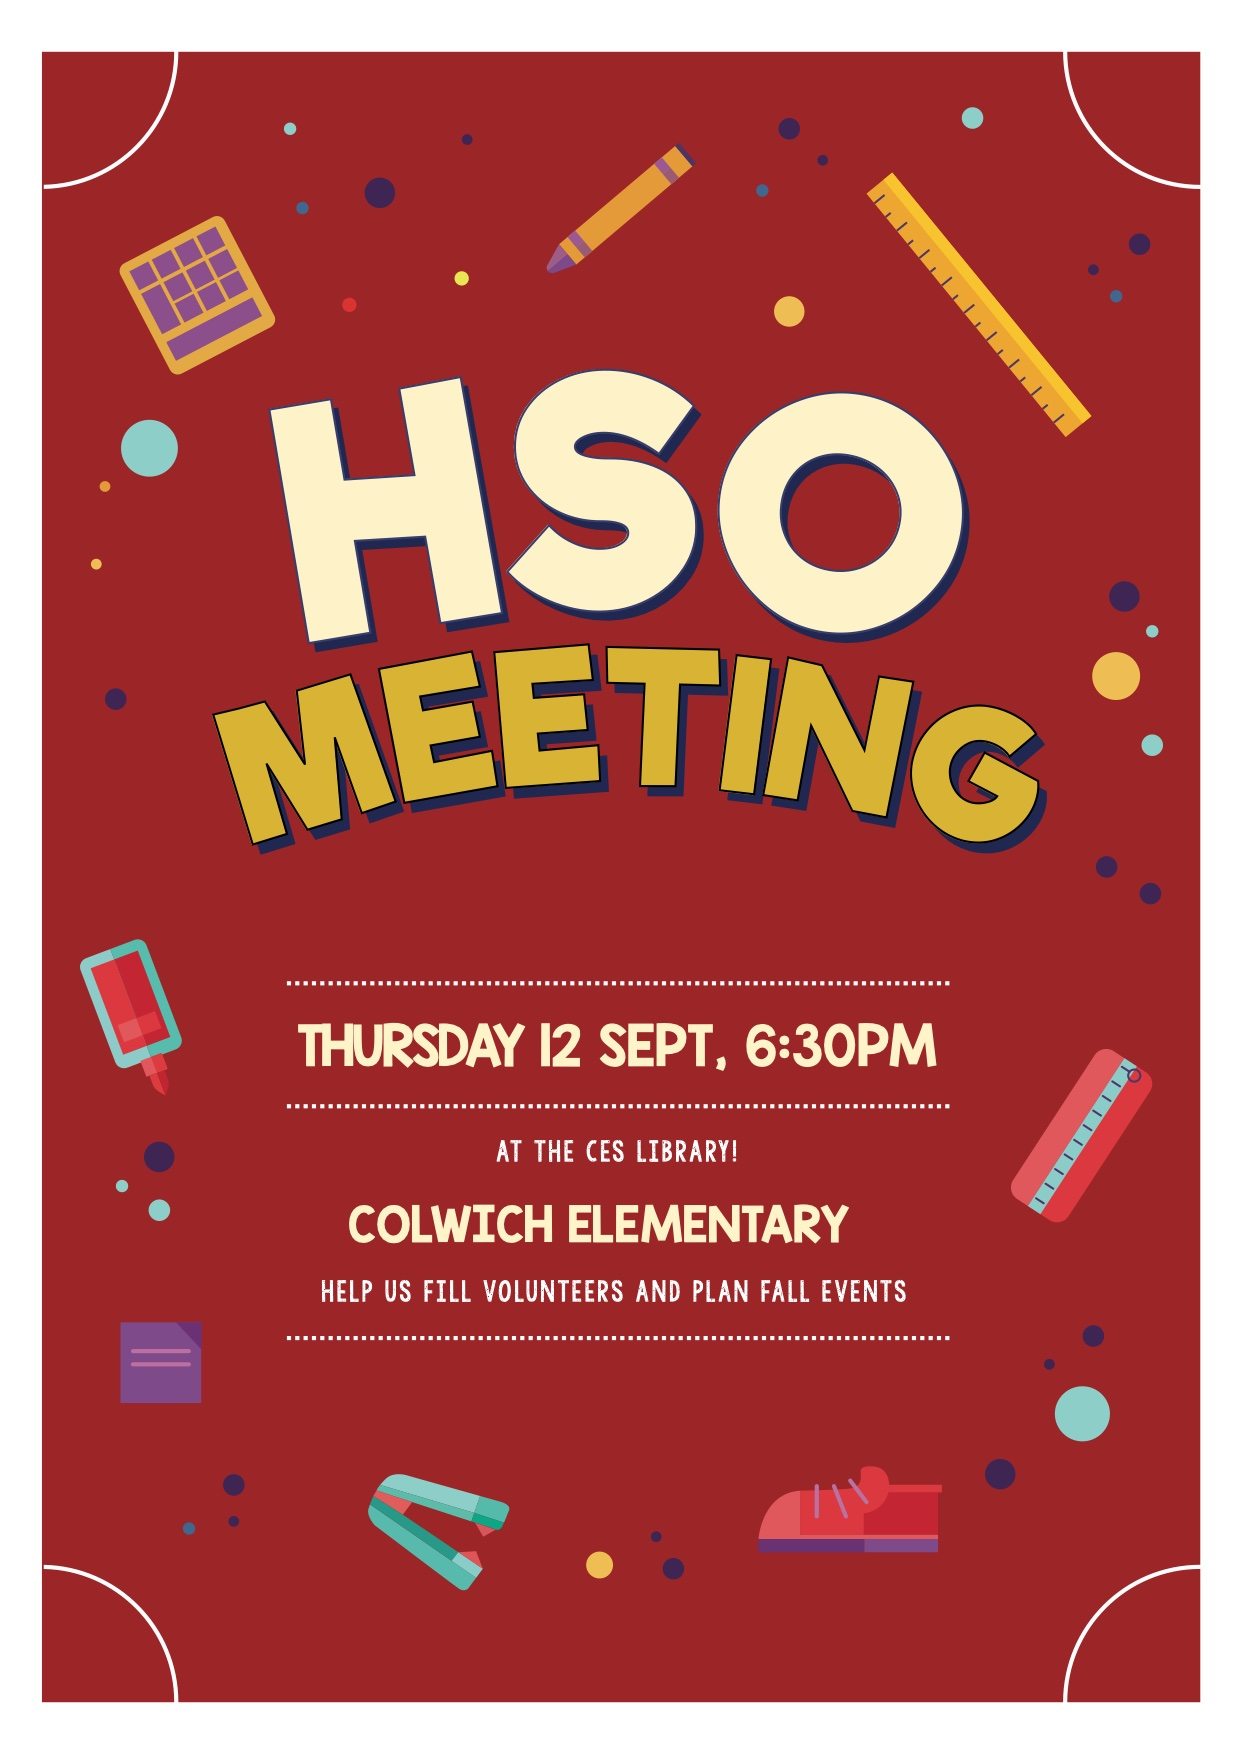
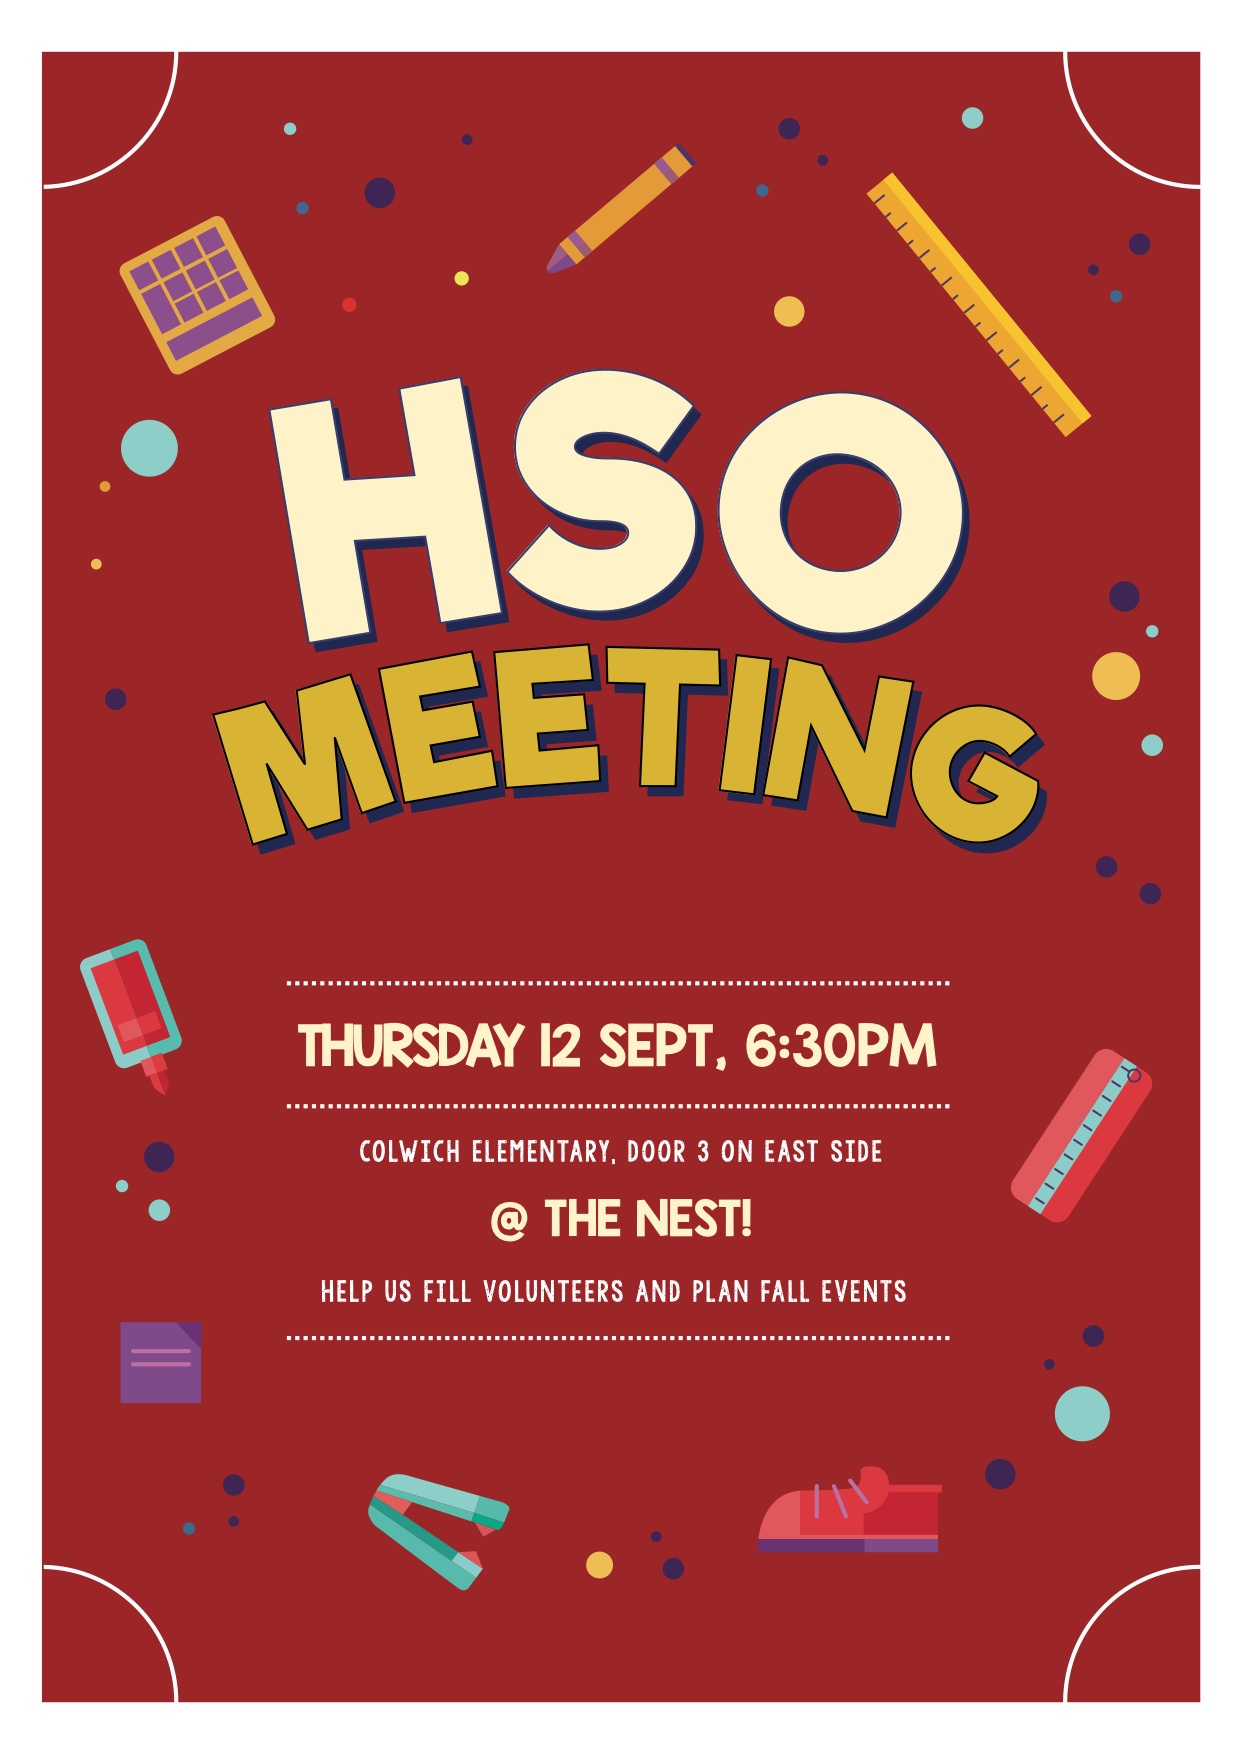
change location

Changed region(s): [[0.2756, 0.6465, 0.7043, 0.7081]]

diff --git a/content/events/meeting1.md b/content/events/meeting1.md
@@ -24,4 +24,4 @@ polaroid:
 - /images/flyers/HSOMeetingSeptWeb.jpg
 - /images/flyers/HSOMeetingSeptWeb.jpg
 ---
-Meet in the CES Library on Sept 12th at 6:30pm to help plan out the fall events, and to fill out volunteer roles. Hope to see you there!
+Meet @ The Nest in Colwich Elementary on Sept 12th at 6:30pm to help plan out the fall events, and to fill out volunteer roles. Enter through door 3 on the east side! Hope to see you there!
